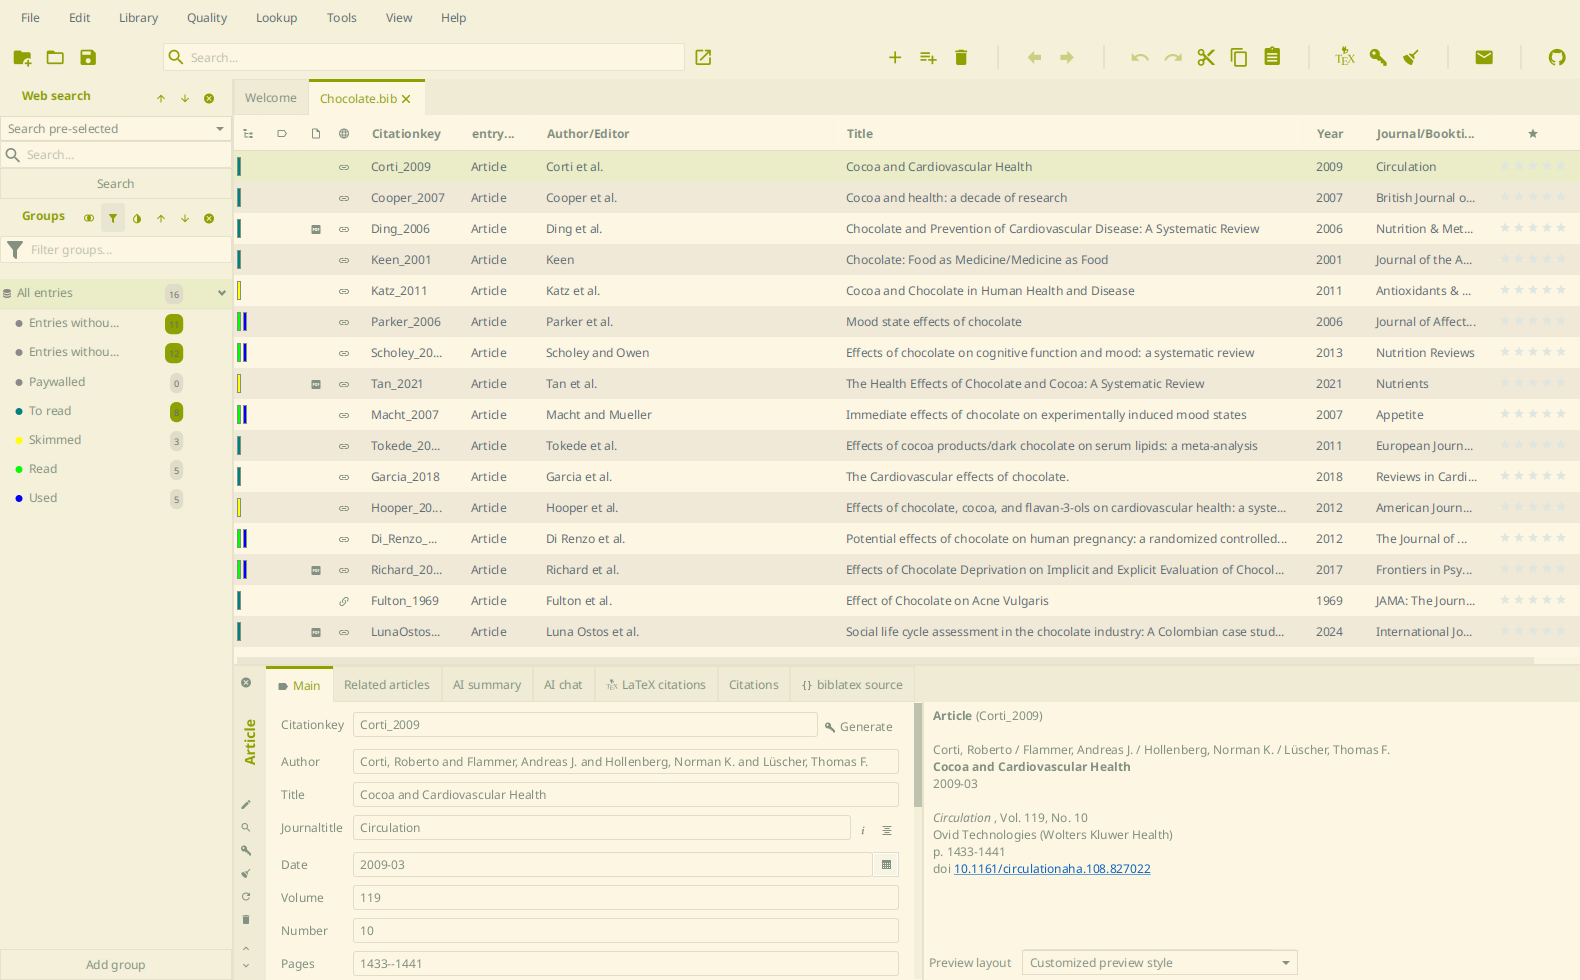
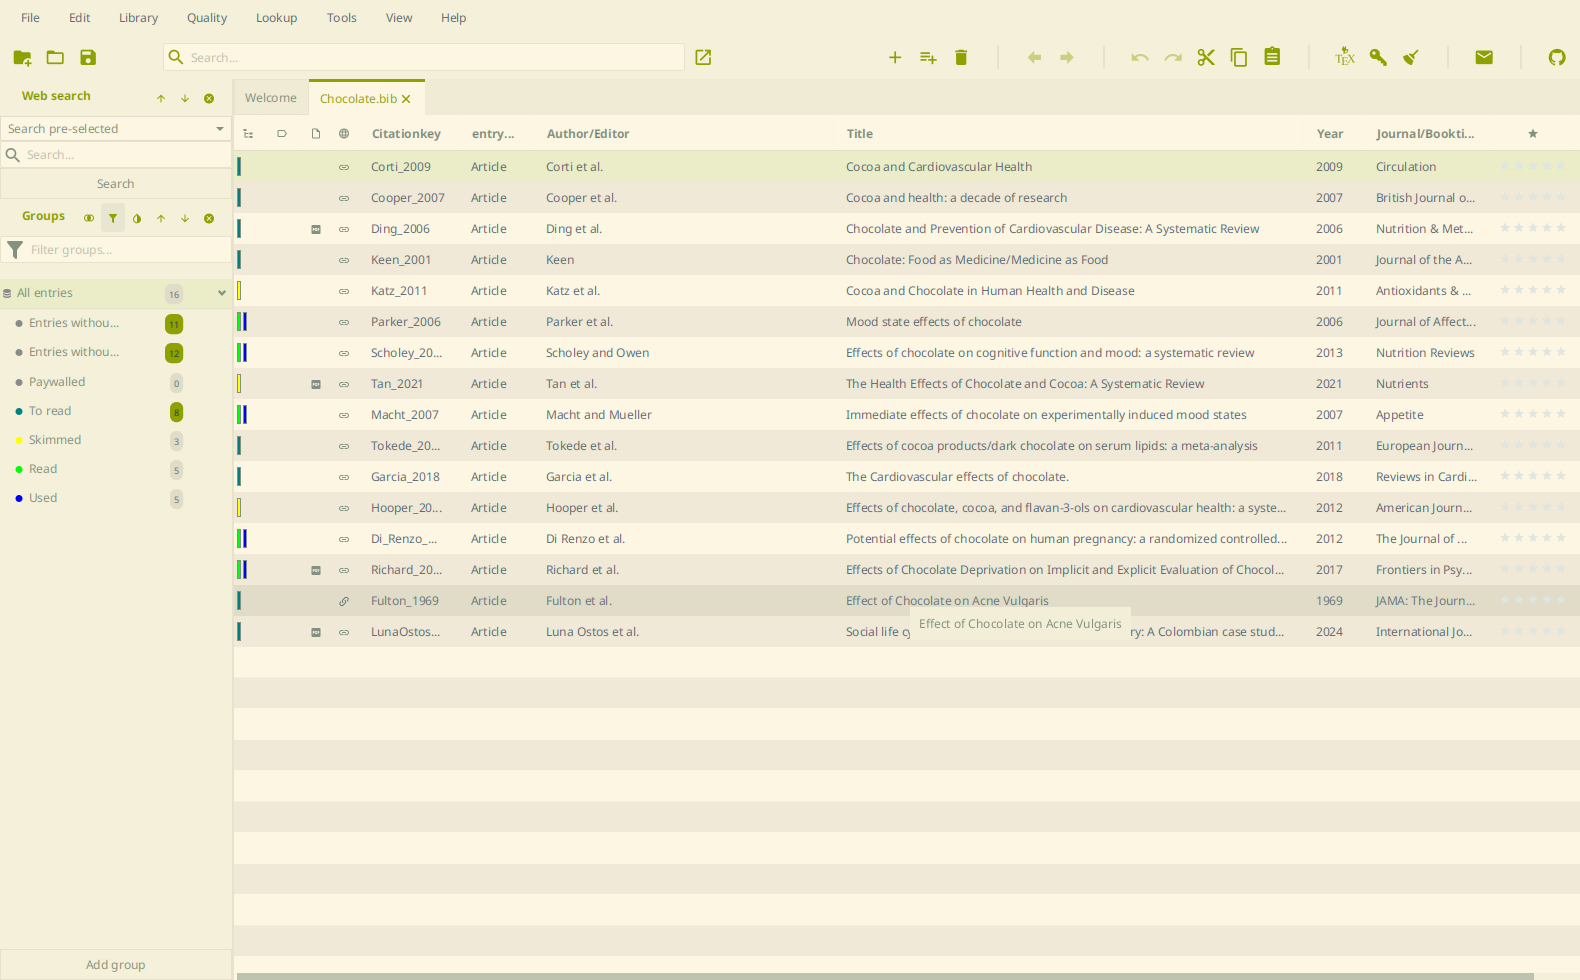
Everforest: readable text on green group badges
Claude-Session: https://claude.ai/code/session_01NexrEs9itF7UUEbMRRu7p3

diff --git a/themes/Everforest/everforest.css b/themes/Everforest/everforest.css
@@ -70,6 +70,7 @@
 
         -color-badge-bg: #475258;
         -color-badge-fg: #D3C6AA;
+        -color-badge-selected-fg: #2D353B;
 
         -color-scrim: rgba(35, 42, 46, 0.8);
         -color-shadow: rgba(0, 0, 0, 0.6);
@@ -144,6 +145,7 @@
 
         -color-badge-bg: #E0DCC7;
         -color-badge-fg: #5C6A72;
+        -color-badge-selected-fg: #2D353B;
 
         -color-scrim: rgba(92, 106, 114, 0.6);
         -color-shadow: rgba(0, 0, 0, 0.3);
